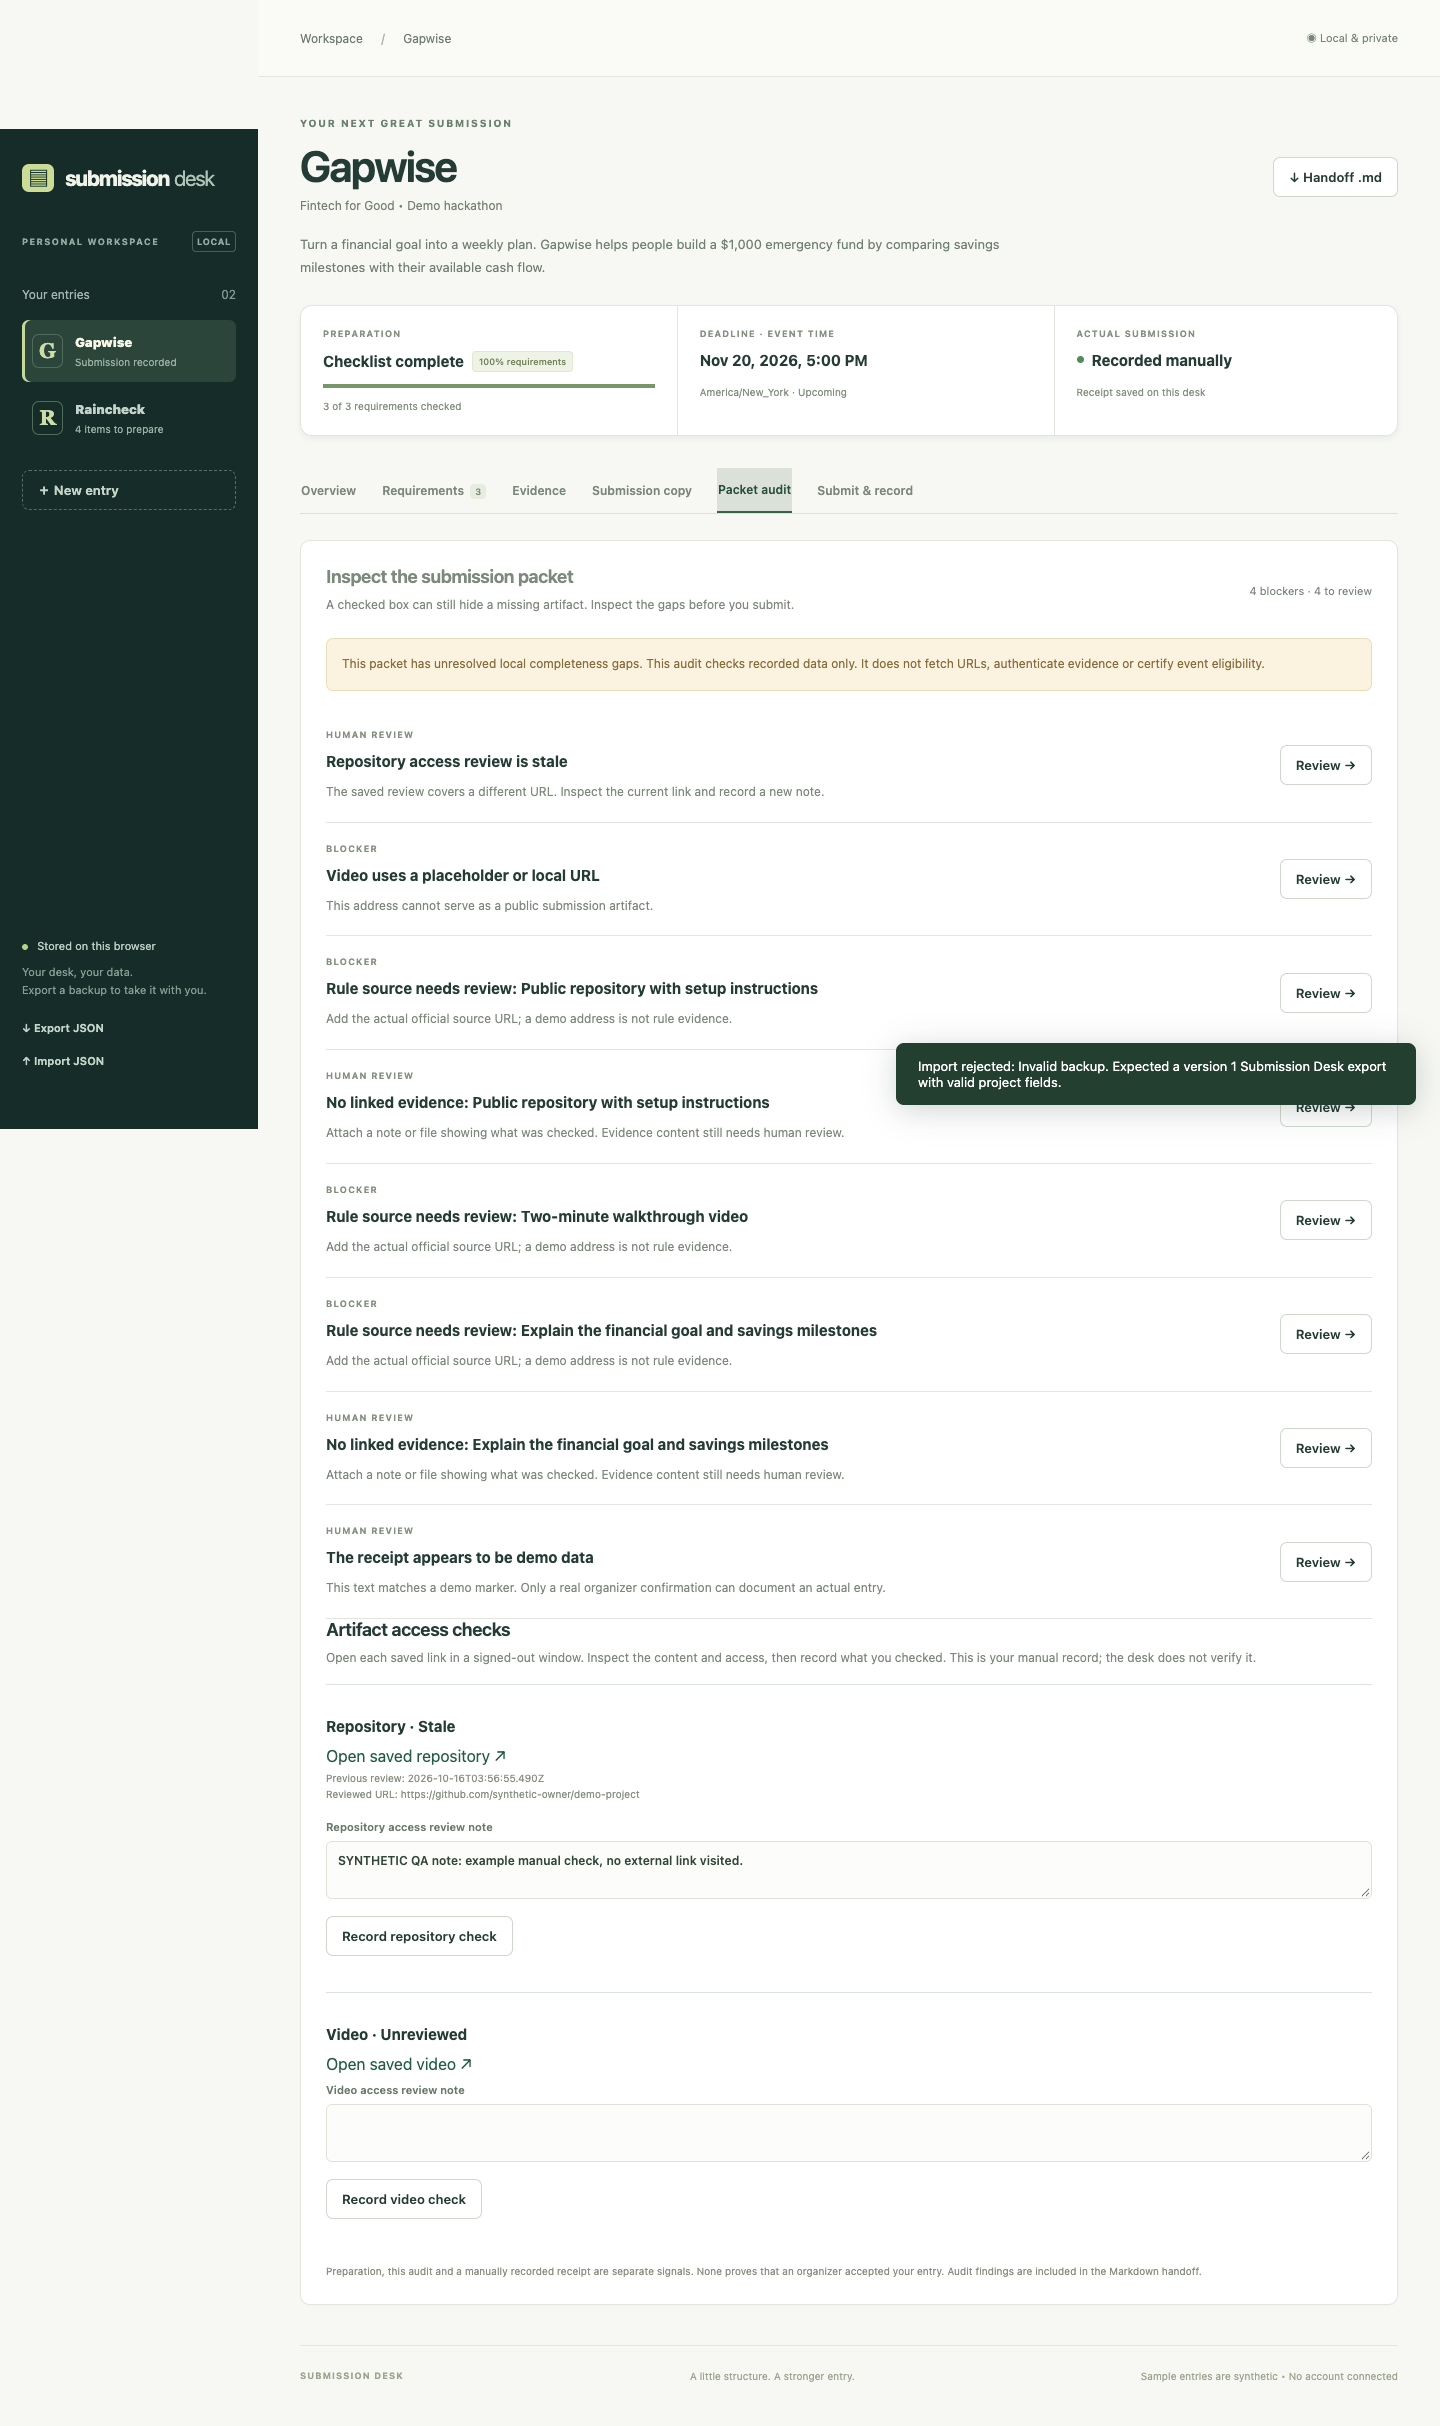
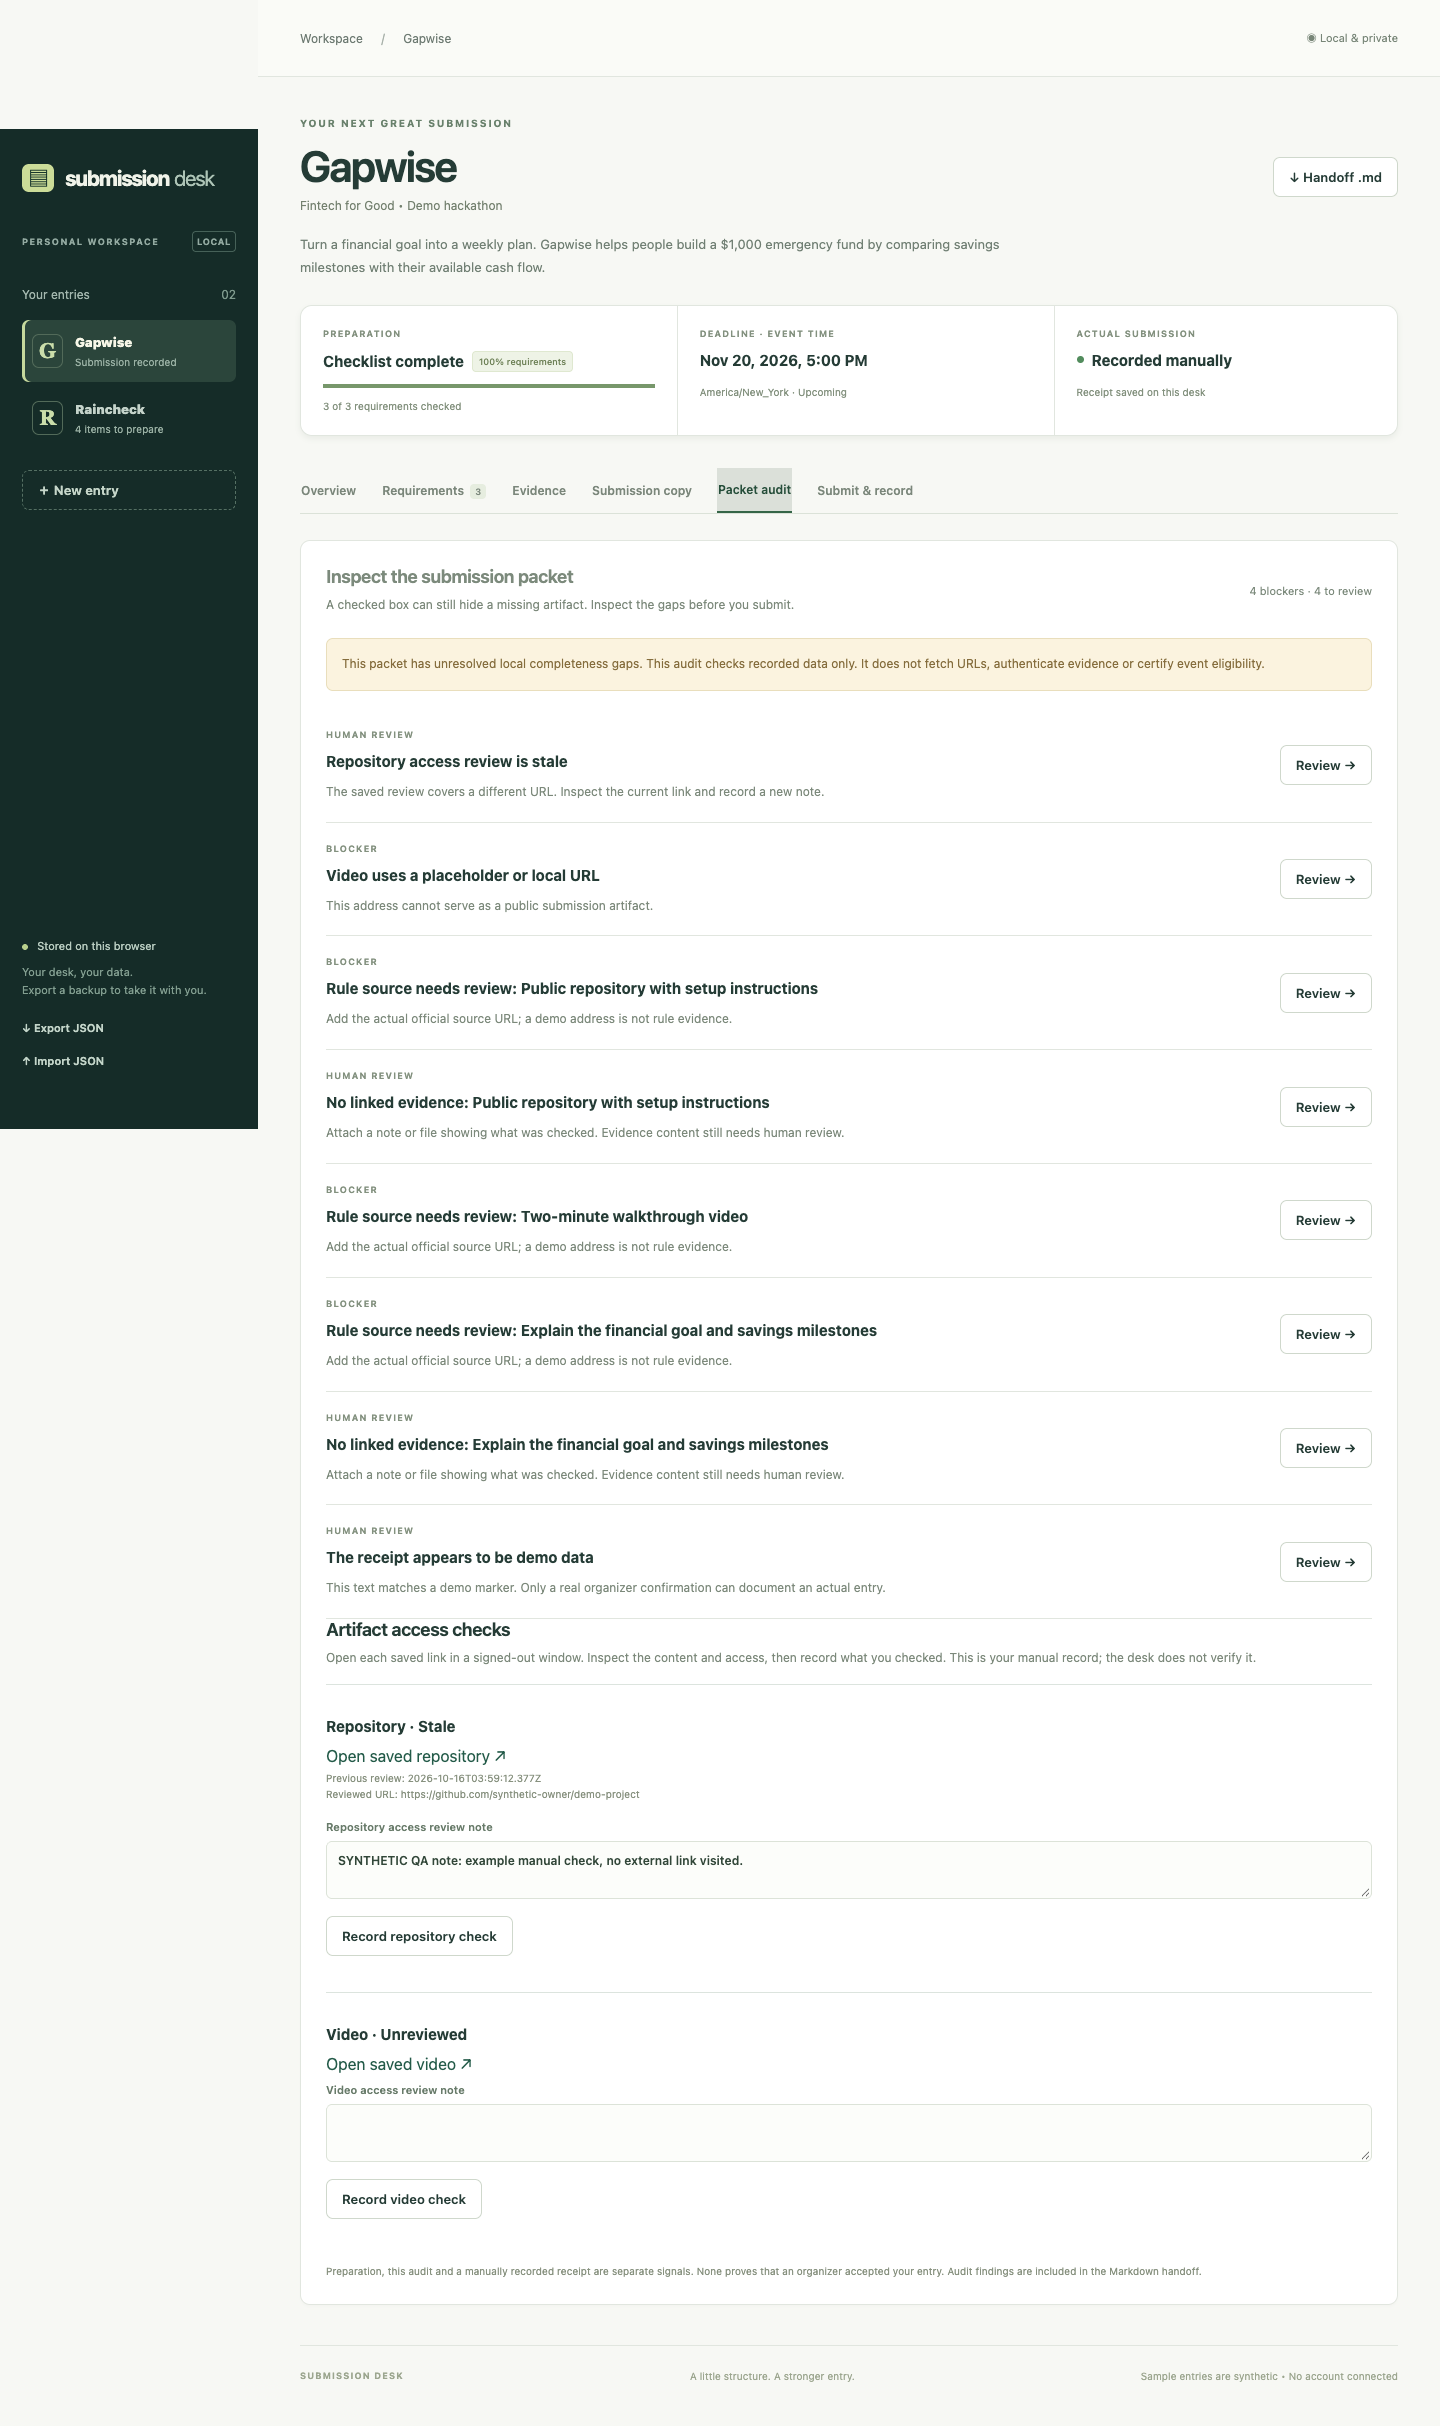
Record release checks and publication authorization

Changed region(s): [[0.625, 0.4328, 1.0, 0.4637]]

diff --git a/README.md b/README.md
@@ -54,7 +54,7 @@ See [the recorded demo](demo/preview.html) and [walkthrough](docs/DEMO.md) and [
 
 Target: Build With AI: Basics, deadline October 26, 2026 at 5 p.m. Eastern; first prize $1,250. No prize is promised. The earlier prototype predates required Skill Pack use; planning and subsequent implementation chronology are disclosed in [WORKFLOW.md](docs/WORKFLOW.md). Required plans are under `devpost/`. The organizer determines eligibility.
 
-Public repository/video and entry are pending user approval. No publication or submission has occurred for Submission Desk. What Changed? is a separate submitted entry and is not reused as this product.
+The user approved source/video publication and entry preparation. Current verified external status is recorded in docs/publication-status.json. What Changed? is a separate submitted entry and is not reused as this product.
 
 ## Verification tooling
 
